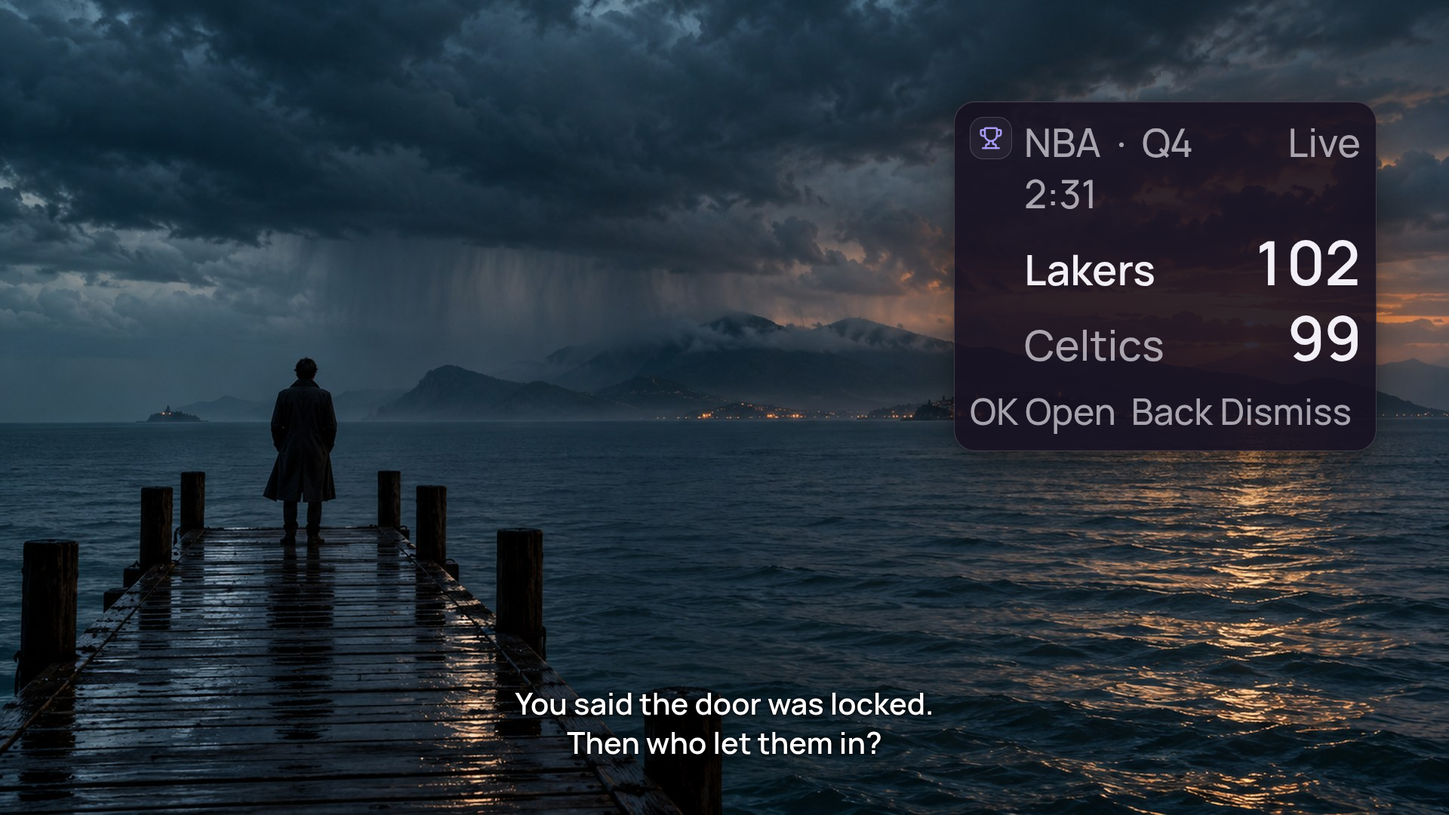
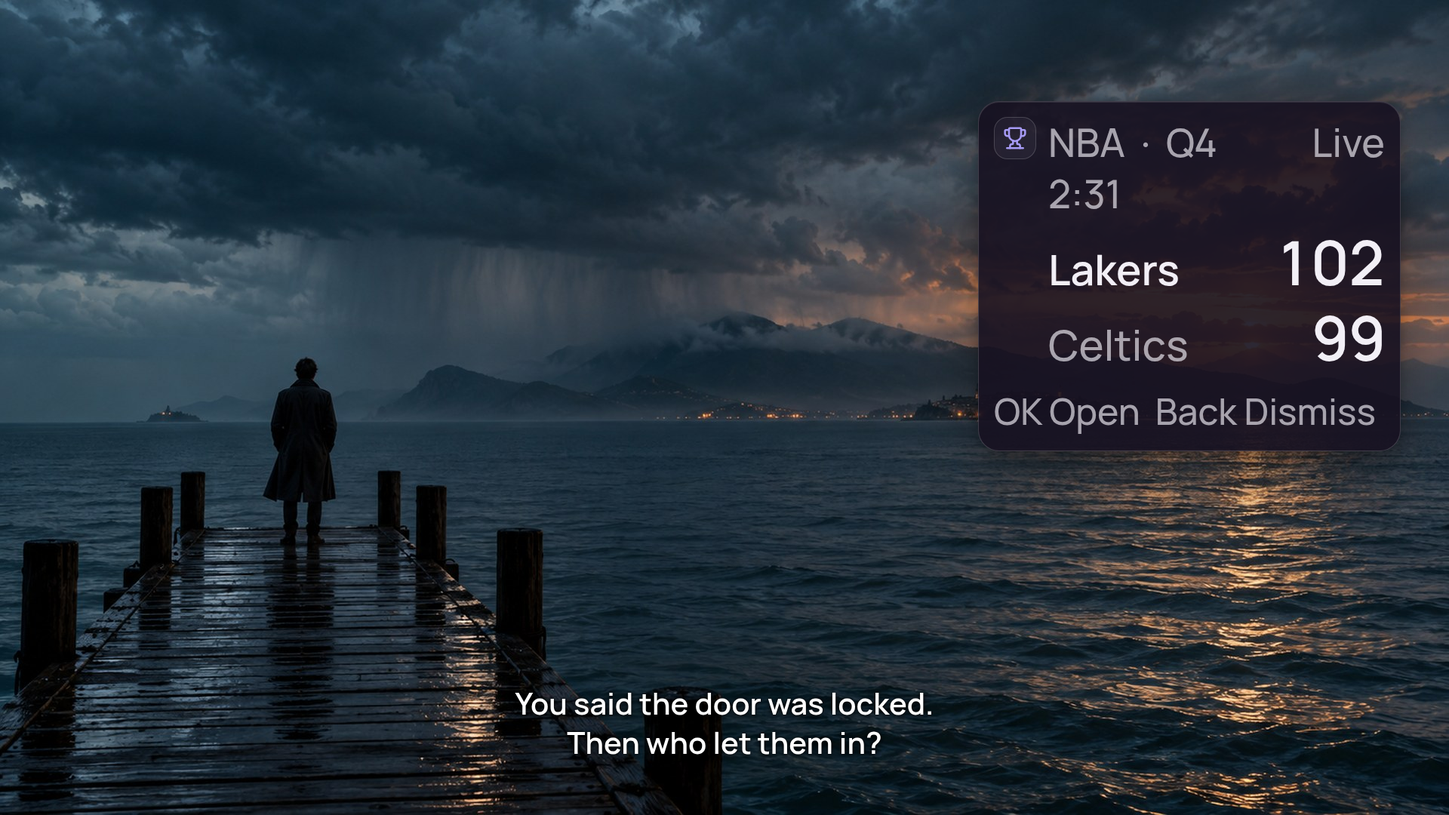
Camera pop-up and cards end where Home's right edge does
The pop-up and the cards were laid out 96 px from the screen's right edge (the 5 % safe area) while Home's status bar and dock end 64 px from it, so both stopped 32 px short of the corner. overlays.right is 64 now and the pop-up reads the same value as the cards; the slide of both is animated in and out instead of jumping.

diff --git a/docs/mocks/overlay-layout/index.html b/docs/mocks/overlay-layout/index.html
@@ -1,0 +1,241 @@
+<!doctype html>
+<html lang="en" data-theme="dark">
+<head>
+<meta charset="utf-8">
+<title>LumaTV · Layout of pop-ups</title>
+<link rel="stylesheet" href="../lucent.css">
+<link rel="stylesheet" href="../help.css">
+<style>
+  /* The layout of the pop-ups (docs/research/overlay-layout-result.md; the surfaces are payload/compositor/lumatv/panels/PlaceEdit.qml and
+     settings/PagePopups.qml, the model is Placement.js, whose arithmetic this page repeats in `rectIn`).
+     ?v=editor (default): every overlay item in its own size on a frame that stands for the screen, the volume bar chosen. The frame shows what the rules
+       keep clear: the safe area (Home's own, 64 x 54), Home's status bar and its row, the bottom quarter (the film's subtitles and the volume bar's) and the
+       subtitles in it. The heads-up panel stands where no item is.
+     ?v=move: the camera window in the hand, a third of the way left; its old place stays outlined; the arrows move it, OK puts it down, Back puts it back.
+     ?v=edge: the volume bar on the right edge (vertical), the camera window moved to the top left: an arrangement the owner made.
+     ?v=blocked: the volume bar pushed toward the right edge, where the camera window is: refused, and the one in the way says so.
+     ?v=page: Settings > Home & look > Layout of pop-ups, a row per item with where it is in words.
+     ?theme=light for the light material; ?text=200 doubles the type (Lucent: no overlapping text at 100 % and 200 %). Sizes are what the surfaces measure at 100 % text
+     (the volume bar 440 x 60, the mute mark 64, the camera window 560 x 469, a card 560 x 165, a toast 560 x 98); text at 200 % makes them taller. */
+  :root { --ts: 1; --canvas: var(--pal-canvas); --tone-accent: var(--lu-accent); }
+  [data-text="200"] { --ts: 2; }
+  [data-theme="light"] { --tone-accent: #5A4C6A; }
+  body { background: var(--pal-canvas); }
+  .stage .wall { opacity: 1; }
+  .veil { position: absolute; inset: 0; background: var(--pal-canvas); opacity: .9; }
+  .sv { display: none; }
+  html:not([data-v]) .sv.ed, [data-v="editor"] .sv.ed, [data-v="move"] .sv.ed, [data-v="edge"] .sv.ed, [data-v="blocked"] .sv.ed, [data-v="page"] .sv.pg { display: block; }
+
+  /* the frame: what the rules keep clear */
+  .safe { position: absolute; left: 64px; top: 54px; right: 64px; bottom: 54px; border: 2px solid color-mix(in srgb, var(--lu-ink) 22%, transparent); border-radius: 6px; }
+  .bar { position: absolute; left: 64px; top: 54px; right: 64px; height: 60px; border-radius: 30px; display: flex; align-items: center; padding: 0 24px 0 8px; gap: 20px; background: var(--lu-glass); border: 1px solid var(--lu-edge); }
+  .bar .dot { width: 44px; height: 44px; border-radius: 50%; background: var(--lu-accent); opacity: .55; }
+  .bar .lab { font-size: 24px; color: var(--lu-ink-3); font-weight: 500; flex: 1; padding-left: 52px; }
+  .bar .ic { width: 28px; height: 28px; color: var(--lu-ink-3); }
+  .hatch { position: absolute; left: 0; right: 0; top: 810px; bottom: 0; background: repeating-linear-gradient(135deg, color-mix(in srgb, var(--lu-danger) 16%, transparent) 0 8px, transparent 8px 28px), color-mix(in srgb, var(--lu-danger) 7%, transparent); border-top: 3px solid color-mix(in srgb, var(--lu-danger) 70%, transparent); }
+  .subs { position: absolute; left: 0; right: 0; top: 905px; height: 105px; display: grid; place-items: center; font-size: 28px; font-weight: 600; color: var(--lu-ink-2); }
+  .held { position: absolute; border: 2px solid color-mix(in srgb, var(--lu-accent) 50%, transparent); display: none; }
+
+  /* an item: its own material and size; chosen it has the lit edge and a tag, picked up it lifts */
+  .g { position: absolute; }
+  .g > .face { position: relative; }
+  .g.sel::before { content: ""; position: absolute; inset: -4px; border-radius: calc(var(--r, 26px) + 4px); border: 3px solid var(--lu-accent); pointer-events: none; z-index: 2; }
+  .g.sel::after { content: ""; position: absolute; inset: -60px; background: radial-gradient(closest-side, color-mix(in srgb, var(--lu-accent) 30%, transparent), transparent 70%); pointer-events: none; z-index: -1; }
+  .g.hit::before { content: ""; position: absolute; inset: -4px; border-radius: calc(var(--r, 26px) + 4px); border: 3px solid var(--lu-danger); pointer-events: none; z-index: 2; }
+  .g.lift > .face { transform: scale(1.03); }
+  .g.waits > .face { opacity: .45; }
+  .g.waits::after { content: "Waits while the camera window is up"; position: absolute; left: 20px; top: calc(100% + 8px); font-size: 22px; font-weight: 500; color: var(--lu-ink-2); }
+  .tag { position: absolute; left: 0; display: none; align-items: center; gap: 8px; height: 40px; padding: 0 16px; border-radius: 20px; background: var(--lu-glass-raised); border: 1px solid var(--lu-edge-raised); font-size: 26px; font-weight: 600; white-space: nowrap; z-index: 3; }
+  .tag .ic { width: 22px; height: 22px; color: var(--lu-accent); }
+  .g.sel .tag { display: inline-flex; }
+  .tag.up { top: -52px; }
+  .tag.down { top: calc(100% + 12px); }
+  .g .overlay { position: relative; }
+  .pill { height: calc(60px + 34px * (var(--ts) - 1)); border-radius: calc(30px + 17px * (var(--ts) - 1)); display: flex; align-items: center; gap: 20px; padding: 0 24px; }
+  .pill.h { width: 440px; }
+  .pill .num { width: calc(48px * var(--ts)); text-align: right; font-size: calc(26px * var(--ts)); font-weight: 600; font-variant-numeric: tabular-nums; }
+  .pill .trk { flex: 1; height: 8px; border-radius: 4px; background: var(--lu-track-off); position: relative; }
+  .pill .trk i { position: absolute; left: 0; top: 0; bottom: 0; width: 42%; border-radius: 4px; background: var(--lu-ink); }
+  .pill.v { width: calc(72px + 44px * (var(--ts) - 1)); height: 440px; flex-direction: column; border-radius: calc(36px + 22px * (var(--ts) - 1)); padding: 24px 0; gap: 20px; justify-content: flex-start; }
+  .pill.v .num { width: auto; text-align: center; }
+  .pill.v .trk { flex: 1; width: 8px; height: auto; }
+  .pill.v .trk i { top: auto; left: 0; right: 0; bottom: 0; width: auto; height: 42%; }
+  .mark { width: 64px; height: 64px; border-radius: 50%; display: grid; place-items: center; }
+  .mark .ic { width: 32px; height: 32px; }
+  .box { position: absolute; border: 2px solid color-mix(in srgb, var(--lu-accent) 40%, transparent); border-radius: 32px; display: none; z-index: -1; }
+  .cam { width: 560px; padding: 20px; box-sizing: border-box; border-radius: var(--lu-radius-card); }
+  .cam .head { display: flex; align-items: flex-start; gap: 16px; }
+  .cam .head .ic { width: 36px; height: 36px; margin-top: 2px; color: var(--tone-accent); }
+  .cam .name { font-size: calc(28px * var(--ts)); font-weight: 600; line-height: 1.25; }
+  .cam .what { font-size: calc(26px * var(--ts)); font-weight: 500; line-height: 1.25; color: var(--lu-ink-2); margin-top: 4px; }
+  .cam .preview { margin-top: 12px; width: 520px; height: 292px; border-radius: var(--lu-radius-tile); background: linear-gradient(180deg, color-mix(in srgb, var(--lu-accent) 30%, transparent), color-mix(in srgb, var(--lu-accent) 8%, transparent)); display: grid; place-items: center; }
+  .cam .preview .ic { width: 64px; height: 64px; color: var(--lu-ink-3); }
+  .cam .foot { display: flex; align-items: center; gap: 8px; margin-top: 12px; font-size: calc(24px * var(--ts)); line-height: 1.3; color: var(--lu-ink-2); flex-wrap: wrap; }
+  .cam .foot .dot { display: inline-block; width: 12px; height: 12px; border-radius: 6px; background: var(--lu-live); }
+  .cam .foot .keys { margin-left: auto; display: flex; gap: 20px; }
+  [data-text="200"] .cam .foot .keys { margin-left: 0; flex-basis: 100%; }
+  .ov { width: 560px; padding: 20px; box-sizing: border-box; border-radius: var(--lu-radius-card); }
+  .ov .ov-row { display: flex; align-items: flex-start; gap: 16px; }
+  .ov .lead { width: 56px; height: 56px; border-radius: 18px; display: grid; place-items: center; flex: none; background: var(--selected-wash); border: 1px solid var(--lu-edge); }
+  .ov .lead .ic { width: 32px; height: 32px; color: var(--tone-accent); }
+  .ov .t { font-size: calc(28px * var(--ts)); font-weight: 600; line-height: 1.25; }
+  .ov .d { margin-top: 4px; font-size: calc(26px * var(--ts)); font-weight: 500; line-height: 1.3; color: var(--lu-ink-2); }
+  .ov .foot { display: flex; align-items: baseline; gap: 16px; margin-top: 12px; font-size: calc(24px * var(--ts)); line-height: 1.3; color: var(--lu-ink-2); flex-wrap: wrap; }
+  .ov .foot .src { flex: 1 1 auto; }
+  .ov .foot .keys { display: flex; gap: 20px; margin-left: auto; }
+  [data-text="200"] .ov .foot .keys { margin-left: 0; flex-basis: 100%; }
+  .tst { width: 560px; border-radius: var(--lu-radius-sheet); background: var(--lu-glass); border: 1px solid var(--lu-edge); padding: 12px; box-sizing: border-box; display: flex; gap: 12px; align-items: center; }
+  .tst .tile { width: 48px; height: 48px; border-radius: 14px; background: var(--lu-accent); color: var(--lu-accent-ink); display: grid; place-items: center; flex: none; }
+  .tst .tile .ic { width: 28px; height: 28px; }
+  .tst .t { font-size: calc(26px * var(--ts)); font-weight: 500; line-height: 1.3; }
+  .tst .d { font-size: calc(24px * var(--ts)); font-weight: 500; line-height: 1.3; color: var(--lu-ink-2); margin-top: 4px; }
+
+  /* the heads-up panel */
+  /* an opaque sheet, as Confirm's: what it covers is not read through it */
+  .hud { position: absolute; width: 760px; padding: 24px; box-sizing: border-box; border-radius: var(--lu-radius-sheet); z-index: 5; background: rgba(31, 29, 46, .96); border: 1px solid var(--lu-edge); }
+  [data-theme="light"] .hud { background: rgba(255, 250, 243, .96); }
+  .hud .hh { display: flex; align-items: center; gap: 12px; font-size: calc(28px * var(--ts)); font-weight: 600; }
+  .hud .hh .ic { width: 32px; height: 32px; }
+  .hud .where { margin-top: 12px; font-size: calc(28px * var(--ts)); font-weight: 500; }
+  .hud .note { margin-top: 12px; font-size: calc(26px * var(--ts)); font-weight: 500; color: var(--lu-danger-readable); display: none; }
+  [data-v="blocked"] .hud .note { display: block; }
+  .hud .btns { display: flex; gap: 16px; margin-top: 16px; }
+  .hud .hint { margin-top: 16px; font-size: calc(24px * var(--ts)); font-weight: 500; color: var(--lu-ink-2); }
+  [data-v="move"] .hud .btns, [data-v="blocked"] .hud .btns, [data-v="move"] .hud .hh, [data-v="blocked"] .hud .hh { display: none; }
+  [data-v="move"] .hud .where, [data-v="blocked"] .hud .where { margin-top: 0; }
+  .hud .btn { height: calc(64px + 32px * (var(--ts) - 1)); min-width: 0; padding: 0 28px; font-size: calc(26px * var(--ts)); }
+</style>
+</head>
+<body>
+<div class="wall"></div>
+<div class="veil"></div>
+
+<!-- ============================ the editor -->
+<div class="sv ed">
+  <div class="safe"></div>
+  <div class="hatch"></div>
+  <div class="subs">Subtitles</div>
+  <div class="bar"><span class="dot"></span><span class="lab">Home&#8217;s status bar</span><i class="ic" data-ic="bell"></i><i class="ic" data-ic="settings"></i><i class="ic" data-ic="search"></i></div>
+  <div class="held" id="held"></div>
+
+  <div class="g" id="g-volume" data-id="volume"><div class="tag up"><i class="ic" data-ic="volume-2"></i>Volume bar</div>
+    <div class="face"><div class="overlay pill h" id="pill"><span class="num">42</span><span class="trk"><i></i></span></div></div></div>
+  <div class="box" id="box"></div>
+  <div class="g" id="g-mute" data-id="mute" style="--r:32px"><div class="tag down"><i class="ic" data-ic="volume-x"></i>Mute mark</div>
+    <div class="face"><div class="overlay mark"><i class="ic" data-ic="volume-x"></i></div></div></div>
+  <div class="g" id="g-popup" data-id="popup"><div class="tag up"><i class="ic" data-ic="video"></i>Camera window</div>
+    <div class="face"><div class="overlay cam">
+      <div class="head"><i class="ic" data-ic="bell-ring"></i><div><div class="name">Front door</div><div class="what">Doorbell rang &nbsp;&middot;&nbsp; Just now</div></div></div>
+      <div class="preview"><i class="ic" data-ic="video"></i></div>
+      <div class="foot"><i class="dot"></i><span>Live</span><span class="keys"><span>OK expands</span><span>Back dismisses</span></span></div>
+    </div></div></div>
+  <div class="g" id="g-cards" data-id="cards"><div class="tag up"><i class="ic" data-ic="bell"></i>Notifications</div>
+    <div class="face"><div class="overlay ov">
+      <div class="ov-row"><i class="lead"><i class="ic" data-ic="timer"></i></i><div><div class="t">Pasta</div><div class="d">Time&#8217;s up</div></div></div>
+      <div class="foot"><span class="src">Kitchen Show</span><span class="keys"><span>OK Stop</span><span>Back Dismiss</span></span></div>
+    </div></div></div>
+  <div class="g" id="g-toast" data-id="toast" style="--r:34px"><div class="tag down"><i class="ic" data-ic="info"></i>Toasts</div>
+    <div class="face"><div class="tst"><i class="tile"><i class="ic" data-ic="info"></i></i><div><div class="t">Remote battery low</div><div class="d">Replace the batteries soon.</div></div></div></div></div>
+
+  <div class="hud" id="hud">
+    <div class="hh"><i class="ic" data-ic="picture-in-picture"></i>Layout of pop-ups</div>
+    <div class="where" id="where"></div>
+    <div class="note" id="note">Camera window is in the way</div>
+    <div class="btns"><span class="btn small" style="opacity:.55">Reset this</span><span class="btn small">Reset all</span><span class="btn small primary">Done</span></div>
+    <div class="hint" id="hint"></div>
+  </div>
+</div>
+
+<!-- ============================ the Settings page -->
+<div class="sv pg">
+  <div class="pane topbar"><i data-ic="chevron-left" class="ic"></i><span class="title">Settings</span><span class="spacer"></span><span class="status"><i data-ic="wifi"></i><i data-ic="mouse-pointer-2"></i></span><span class="time num">9:57 PM</span></div>
+  <nav class="pane rail" data-open="home" aria-label="Settings sections"></nav>
+  <main class="pane page">
+    <div class="page-head"><h1>Layout of pop-ups</h1><span class="sub">Home &amp; look</span></div>
+    <div class="page-body">
+      <div class="rows">
+        <div class="row focusable no-line focus"><div class="lead"><i data-ic="volume-2"></i></div><div class="text"><div class="t">Volume bar</div></div><div class="v">Bottom edge <i data-ic="chevron-right"></i></div></div>
+        <div class="row focusable"><div class="lead"><i data-ic="volume-x"></i></div><div class="text"><div class="t">Mute mark</div></div><div class="v">Corners <i data-ic="chevron-right"></i></div></div>
+        <div class="row focusable"><div class="lead"><i data-ic="video"></i></div><div class="text"><div class="t">Camera window</div></div><div class="v">Top right <i data-ic="chevron-right"></i></div></div>
+        <div class="row focusable"><div class="lead"><i data-ic="bell"></i></div><div class="text"><div class="t">Notifications</div></div><div class="v">Top right <i data-ic="chevron-right"></i></div></div>
+        <div class="row focusable"><div class="lead"><i data-ic="info"></i></div><div class="text"><div class="t">Toasts</div></div><div class="v">Top right <i data-ic="chevron-right"></i></div></div>
+      </div>
+      <div class="rows">
+        <div class="row focusable no-line"><div class="lead"><i data-ic="layout-grid"></i></div><div class="text"><div class="t">Edit in preview</div></div><div class="v"><i data-ic="chevron-right"></i></div></div>
+        <div class="row focusable"><div class="lead"><i data-ic="rotate-ccw"></i></div><div class="text"><div class="t">Reset all</div></div><span class="seg"><span aria-selected="true">Keep</span><span aria-selected="false">Reset</span></span></div>
+      </div>
+    </div>
+  </main>
+</div>
+
+<script src="../icons.js"></script>
+<script src="../mock.js"></script>
+<script>
+(function () {
+  const q = new URLSearchParams(location.search);
+  if (q.get('text')) document.documentElement.dataset.text = q.get('text');
+  const v = q.get('v') || 'editor';
+  // ---- Placement.js, as far as this page needs: the zones, the anchors and the room an item has left
+  const Z = { content: { x: 64, y: 134, w: 1792, h: 676 }, edge: { x: 64, y: 134, w: 1792, h: 882 }, toast: { x: 24, y: 24, w: 1872, h: 786 } };
+  const A = { 'top-left': [0, 0], 'top': [.5, 0], 'top-right': [1, 0], 'left': [0, .5], 'center': [.5, .5], 'right': [1, .5], 'bottom-left': [0, 1], 'bottom': [.5, 1], 'bottom-right': [1, 1] };
+  const clamp = (x) => Math.max(0, Math.min(1, x));
+  const rectIn = (z, p, w, h) => { const a = A[p.anchor]; return { x: z.x + Math.round(clamp(a[0] + p.dx) * Math.max(0, z.w - w)), y: z.y + Math.round(clamp(a[1] + p.dy) * Math.max(0, z.h - h)), w, h }; };
+  const meets = (a, b, g = 0) => a.x < b.x + b.w + g && b.x < a.x + a.w + g && a.y < b.y + b.h + g && b.y < a.y + a.h + g;
+  // ---- the arrangement of each view (what the owner placed; anything not said is the item's default)
+  const TL = { anchor: 'top-left', dx: 0, dy: 0 }, TR = { anchor: 'top-right', dx: 0, dy: 0 };
+  const DEF = { volume: { anchor: 'bottom', dx: 0, dy: 0 }, mute: { anchor: 'top-left', dx: .0185, dy: 0 }, popup: TR, cards: TR, toast: TR };
+  const VIEWS = {
+    editor: { sel: 'volume', place: {} },
+    move: { sel: 'popup', picked: true, place: { popup: { anchor: 'top', dx: .1667, dy: 0 } }, held: 'popup' },
+    edge: { sel: 'volume', place: { volume: { anchor: 'right', dx: 0, dy: 0 }, popup: TL, cards: { anchor: 'top', dx: 0, dy: 0 }, mute: { anchor: 'top-right', dx: 0, dy: 0 } } },
+    blocked: { sel: 'volume', picked: true, place: {}, held: 'volume', hit: 'popup', ghost: { volume: { anchor: 'right', dx: 0, dy: 0 } } },
+  };
+  if (v === 'page') { window.addEventListener('load', () => document.fonts.ready); return; }
+  const V = VIEWS[v] || VIEWS.editor;
+  const P = (id) => V.place[id] || DEF[id];
+  const ids = ['volume', 'mute', 'popup', 'cards', 'toast'];
+  const names = { volume: 'Volume bar', mute: 'Mute mark', popup: 'Camera window', cards: 'Notifications', toast: 'Toasts' };
+  const icons = { volume: 'volume-2', mute: 'volume-x', popup: 'video', cards: 'bell', toast: 'info' };
+  const place = () => {
+    const el = (id) => document.getElementById('g-' + id);
+    const pill = document.getElementById('pill');
+    const edgeOf = (p) => p.anchor === 'bottom' ? 'h' : 'v';
+    const volP = (V.ghost && V.ghost.volume) ? DEF.volume : P('volume');       // a refused move leaves the bar where it was
+    pill.classList.toggle('v', edgeOf(volP) === 'v'); pill.classList.toggle('h', edgeOf(volP) === 'h');
+    // the panel's words first: its height is what its place is chosen for
+    const words = { editor: 'Bottom edge', move: 'Top, right third, moved', edge: 'Right edge', blocked: 'Bottom edge' }[v];
+    document.getElementById('where').textContent = names[V.sel] + '  \u00b7  ' + words;
+    document.getElementById('hint').textContent = V.picked ? 'Arrows move it  \u00b7  OK Put down  \u00b7  Back Put back' : '\u2190 \u2192 Choose an item  \u00b7  OK Pick up  \u00b7  Down Buttons  \u00b7  Back Done';
+    window.Icons && Icons.fill(document);
+    // the camera window's picture gives up height (never below 120) until the card ends above 810, as the surface does
+    const pv = document.querySelector('#g-popup .preview'), pz = el('popup');
+    pz.style.left = '1296px'; pz.style.top = '134px';
+    const over = pz.getBoundingClientRect().bottom - 810;
+    if (over > 0) pv.style.height = Math.max(120, 292 - Math.ceil(over / 2) * 2) + 'px';
+    const size = (id) => ({ w: el(id).offsetWidth, h: el(id).offsetHeight });
+    const R = {};
+    ids.forEach((id) => { const s = size(id); R[id] = rectIn(Z[id === 'volume' ? 'edge' : id === 'toast' ? 'toast' : 'content'], id === 'volume' ? volP : P(id), s.w, s.h); });
+    R.volume.y -= (volP.anchor === 'bottom' ? 120 : 0);                       // over an app the bar on the bottom edge rides above the subtitles
+    // the cards go under the camera window where they meet; where they would end below 810 they wait there until it has gone (drawn faint)
+    let waits = false;
+    if (meets(R.popup, R.cards, 16)) { R.cards.y = R.popup.y + R.popup.h + 16; waits = R.cards.y + R.cards.h > 810; }
+    ids.forEach((id) => { const e = el(id); e.style.left = R[id].x + 'px'; e.style.top = R[id].y + 'px'; e.classList.toggle('sel', V.sel === id); e.classList.toggle('lift', !!V.picked && V.sel === id); e.classList.toggle('hit', V.hit === id); });
+    el('cards').classList.toggle('waits', waits);
+    ['volume', 'mute', 'popup', 'cards', 'toast'].forEach((id) => { const t = el(id).querySelector('.tag'); if (R[id].y < 60) { t.classList.remove('up'); t.classList.add('down'); } });
+    // the place the item in the hand left stays outlined
+    if (V.picked && V.held) { const h = document.getElementById('held'), r = R[V.held]; const hp = DEF[V.held]; const hr = rectIn(Z[V.held === 'volume' ? 'edge' : 'content'], hp, r.w, r.h); if (V.held === 'volume') hr.y -= 120; h.style.cssText = `display:block;left:${hr.x}px;top:${hr.y}px;width:${hr.w}px;height:${hr.h}px;border-radius:${V.held === 'volume' ? 30 : 26}px`; }
+    // the places a mark the owner placed visits
+    if (V.place.mute) { const b = document.getElementById('box'), m = R.mute, d = 48; const sx = m.x + 32 < 960 ? 1 : -1, sy = m.y + 32 < 472 ? 1 : -1; const x0 = Math.min(m.x, m.x + sx * d), y0 = Math.min(m.y, m.y + sy * d); b.style.cssText = `display:block;left:${x0}px;top:${y0}px;width:${64 + d}px;height:${64 + d}px`; }
+    // the heads-up panel: the first place, nearest the middle of the screen, that no item is in or beside (a place every 40 px across, three heights)
+    const hud = document.getElementById('hud'), hw = hud.offsetWidth, hh = hud.offsetHeight;
+    const xs = []; for (let x = 64 + 40; x <= 1920 - 64 - 40 - hw; x += 40) xs.push(x); xs.sort((a, b) => Math.abs(a + hw / 2 - 960) - Math.abs(b + hw / 2 - 960));
+    const ys = [Math.round((1080 - hh) / 2), 134 + 28, 810 - hh - 28];
+    let best = { x: xs[0], y: ys[0] }, bestHit = 99;
+    outer: for (const y of ys) for (const x of xs) { let hit = 0; for (const id of ids) if (!(id === 'cards' && waits) && meets({ x, y, w: hw, h: hh }, R[id], 16)) hit += id === V.sel ? 100 : 1; if (hit < bestHit) { bestHit = hit; best = { x, y }; } if (!hit) break outer; }
+    hud.style.left = best.x + 'px'; hud.style.top = best.y + 'px';
+  };
+  addEventListener('load', () => document.fonts.ready.then(place));
+})();
+</script>
+</body>
+</html>

diff --git a/docs/mocks/overlays/index.html b/docs/mocks/overlays/index.html
@@ -6,7 +6,7 @@
 <link rel="stylesheet" href="../lucent.css">
 <style>
   /* One overlay system over any app (docs/research/overlays-result.md; the surface is payload/compositor/lumatv/panels/Overlays.qml and its
-     cards OverlayCard.qml). A column of glass cards in the top right corner: inside the 5 % safe area (96 from the right edge), below the status
+     cards OverlayCard.qml). A column of glass cards in the top right corner: flush with Home's right edge (64 from the screen's, as its status bar and widgets end: it was 96 until the layout editor, docs/research/overlay-layout-result.md), below the status
      bar's row (134 from the top), 560 wide as the camera pop-up and the toasts are, never lower than 75 % of the height (810) so that the film's
      subtitles and the volume bar keep the bottom quarter. At most two cards at once, the most important class first, the camera pop-up (the
      doorbell's card) on top where it is up.
@@ -26,7 +26,7 @@
   html:not([data-v]) .st.multi, [data-v="stack"] .st.multi, [data-v="doorbell"] .st.doorbell, [data-v="timer"] .st.timer, [data-v="alarm"] .st.alarm,
   [data-v="alert"] .st.alert, [data-v="score"] .st.score, [data-v="zones"] .st.multi { display: block; }
 
-  .stack { position: absolute; right: 96px; top: 134px; width: 560px; display: flex; flex-direction: column; gap: 16px; }
+  .stack { position: absolute; right: 64px; top: 134px; width: 560px; display: flex; flex-direction: column; gap: 16px; }
   .ov { position: relative; padding: 20px; border-radius: var(--lu-radius-card); }
   .ov .ov-row { display: flex; align-items: flex-start; gap: 16px; }
   .ov .ov-lead { width: 56px; height: 56px; border-radius: 18px; display: grid; place-items: center; flex: none; background: var(--selected-wash); border: 1px solid var(--lu-edge); }
@@ -72,10 +72,10 @@
   /* the zones (?v=zones): what the column keeps to */
   .zone { display: none; position: absolute; pointer-events: none; }
   [data-v="zones"] .zone { display: block; }
-  .zone.safe { left: 96px; right: 96px; top: 54px; bottom: 54px; border: 2px dashed rgba(255,255,255,.35); border-radius: 8px; }
+  .zone.safe { left: 64px; right: 64px; top: 54px; bottom: 54px; border: 2px dashed rgba(255,255,255,.35); border-radius: 8px; }
   .zone.bottom { left: 0; right: 0; top: 810px; bottom: 0; background: repeating-linear-gradient(135deg, rgba(235,111,146,.26) 0 14px, rgba(235,111,146,.10) 14px 28px); border-top: 3px solid var(--lu-danger); }
-  .zone.bottom span { position: absolute; left: 96px; top: 12px; padding: 4px 16px; border-radius: 12px; background: rgba(0,0,0,.72); color: #fff; font-size: 24px; font-weight: 600; }
-  .zone.col { left: 1264px; width: 560px; top: 134px; height: 676px; border: 3px dashed var(--lu-accent); border-radius: 28px; }
+  .zone.bottom span { position: absolute; left: 64px; top: 12px; padding: 4px 16px; border-radius: 12px; background: rgba(0,0,0,.72); color: #fff; font-size: 24px; font-weight: 600; }
+  .zone.col { left: 1296px; width: 560px; top: 134px; height: 676px; border: 3px dashed var(--lu-accent); border-radius: 28px; }
   .zone.col span { position: absolute; right: 16px; bottom: 8px; padding: 2px 12px; border-radius: 10px; background: rgba(0,0,0,.72); color: #fff; font-size: 22px; font-weight: 600; }
 </style>
 </head>

diff --git a/payload/compositor/lumatv/panels/Cameras.qml b/payload/compositor/lumatv/panels/Cameras.qml
@@ -200,8 +200,9 @@ Item {
     function nameOf(i) { return i >= 0 && i < cameras.length ? (cameras[i].name || cameras[i].id) : "" }
 
     // ================================================================= the pop-up card (docs/mocks/cameras/popup)
-    // Top right, inside the 5 % safe area (96 from the right edge) and below the status bar's row (54 + 60 + 20 = 134): the mute mark's
+    // Top right, ending where Home's status bar does (theme overlays.right, 64: layout.json safe.x) and below its row (54 + 60 + 20 = 134): the mute mark's
     // row; the mark keeps to the left corner while this is up (LumaOverlay tells the volume display).
+    readonly property int rightEdge: Lu.theme && Lu.theme.overlays && Lu.theme.overlays.right !== undefined ? Lu.theme.overlays.right : 64     // the cards under it use the same
     readonly property int padX: Lu.space(5)       // 20
     readonly property int cardW: 560
     readonly property int previewW: cardW - 2 * padX
@@ -212,11 +213,12 @@ Item {
     readonly property int previewH: Math.max(120, Math.min(previewNat, ((cardLimit - 134 - (2 * padX + head.height + 2 * Lu.space(3) + foot.height)) >> 1) << 1))
     // where the card ends, for the overlay system's cards that go under it
     readonly property real popupBottom: card.y + card.height
+    readonly property real popupRight: card.x + card.width     // and where it ends across: where Home's right edge is
     LuPane {
         id: card
         width: cams.cardW
         height: head.y + head.height + Lu.space(3) + cams.previewH + Lu.space(3) + foot.height + cams.padX
-        x: cams.width - 96 - width
+        x: cams.width - cams.rightEdge - width
         y: 134
         cardRadius: Lu.radius("card")
         fillAlpha: cams.paneAlpha
@@ -224,7 +226,10 @@ Item {
         visible: opacity > 0
         // in from a touch to the right and a little smaller, the card's own motion; out quickly. Nothing moves after it has landed.
         scale: cams.popupUp ? 1 : 0.96
-        transform: Translate { x: cams.popupUp ? 0 : 24 }
+        transform: Translate {
+            x: cams.popupUp ? 0 : 24
+            Behavior on x { enabled: !Lu.reduced; NumberAnimation { duration: cams.popupUp ? Lu.cardMs : Lu.restMs; easing.type: Lu.cardEasing } }
+        }
         Behavior on opacity { enabled: !Lu.reduced; NumberAnimation { duration: cams.popupUp ? Lu.cardMs : Lu.restMs; easing.type: Lu.cardEasing } }
         Behavior on scale { enabled: !Lu.reduced; NumberAnimation { duration: Lu.cardMs; easing.type: Lu.cardEasing } }
         onOpacityChanged: if (opacity === 1) locate()

diff --git a/docs/mocks/cameras/index.html b/docs/mocks/cameras/index.html
@@ -18,9 +18,9 @@
   .st { display: none; }
   html:not([data-v]) .st.popup, [data-v="popup"] .st.popup, [data-v="doorbell"] .st.doorbell, [data-v="full"] .st.full, [data-v="grid"] .st.grid { display: block; }
 
-  /* the card: 560 wide, 96 from the right edge (the 5 % safe area), 134 from the top (the status bar's row and its gap). Lucent overlay material;
+  /* the card: 560 wide, 64 from the right edge (Home's own: its status bar and cards end there; it was 96 until the layout editor), 134 from the top (the status bar's row and its gap). Lucent overlay material;
      over video a near-opaque reading surface, no blur. One edge, one shadow. */
-  .cam-card { position: absolute; right: 96px; top: 134px; width: 560px; padding: 20px; box-sizing: border-box; border-radius: var(--lu-radius-card); }
+  .cam-card { position: absolute; right: 64px; top: 134px; width: 560px; padding: 20px; box-sizing: border-box; border-radius: var(--lu-radius-card); }
   .cam-card .head { display: flex; align-items: flex-start; gap: 16px; }
   .cam-card .head .ic { width: 36px; height: 36px; margin-top: 2px; }
   .cam-card .who { flex: 1 1 auto; min-width: 0; }
@@ -33,7 +33,7 @@
   .cam-card .foot .hint { margin-left: auto; color: var(--lu-ink-3); white-space: nowrap; }
   /* at 200 % the hint takes a line of its own under the state, never the edge of the card */
   [data-text="200"] .cam-card .foot { flex-wrap: wrap; row-gap: 4px; }
-  [data-text="200"] .cam-card .foot .hint { margin-left: 0; flex-basis: 100%; }
+  [data-text="200"] .cam-card .foot .hint { margin-left: 0; flex-basis: 100%; white-space: normal; }
 
   /* the full view: the picture fitted on black, the name pill top left and the hints bottom right, both fading after a moment */
   .full { position: absolute; inset: 0; background: #000; }

diff --git a/payload/compositor/lumatv/panels/OverlayCard.qml b/payload/compositor/lumatv/panels/OverlayCard.qml
@@ -39,7 +39,10 @@ Item {
     visible: !probe && opacity > 0
     opacity: probe ? 1 : (shown ? 1 : 0)
     scale: probe || shown ? 1 : 0.96
-    transform: Translate { x: card.probe || card.shown ? 0 : 24 }
+    transform: Translate {
+        x: card.probe || card.shown ? 0 : 24
+        Behavior on x { enabled: !card.probe && !card.instant && !Lu.reduced; NumberAnimation { duration: card.shown ? Lu.cardMs : Lu.restMs; easing.type: Lu.cardEasing } }
+    }
     Behavior on opacity { enabled: !card.probe && !card.instant && !Lu.reduced; NumberAnimation { duration: card.shown ? Lu.cardMs : Lu.restMs; easing.type: Lu.cardEasing } }
     Behavior on scale { enabled: !card.probe && !card.instant && !Lu.reduced; NumberAnimation { duration: Lu.cardMs; easing.type: Lu.cardEasing } }
     onOpacityChanged: if (opacity === 1) pane.locate()

diff --git a/payload/compositor/lumatv/Overlays.js b/payload/compositor/lumatv/Overlays.js
@@ -27,7 +27,7 @@ var DEFAULTS = {
     enabled: false,
     maxVisible: 2,
     top: 134,                     // where the first card starts: below the status bar's row (54 + 60 + 20), as the camera pop-up
-    right: 96,                    // from the right edge: the 5 % safe area
+    right: 64,                    // from the right edge: Home's own margin (layout.json safe.x), where its status bar and dock end
     width: 560,                   // as the camera pop-up and the toasts
     gap: 16,                      // between two cards
     limit: 810,                   // no card ends below this: three quarters of 1080, so the film's subtitles and the volume bar keep the rest

diff --git a/tests/test_camera_popup.py b/tests/test_camera_popup.py
@@ -81,7 +81,7 @@ class CameraPopup(HostCase):
         steps = [(READY, publish("cameras", CAMERAS)),
                  (READY + 300, popup(lasts=4000)),
                  (READY + 2300, "var c = %s; console.info('[p1] ' + JSON.stringify({mode: c.mode, popupUp: c.popupUp, wants: c.wants, overlayWants: overlay.wants, "
-                               "name: c.popup ? c.popup.name : '', what: c.kindWord(c.popup), ago: c.ago, "
+                               "name: c.popup ? c.popup.name : '', what: c.kindWord(c.popup), ago: c.ago, right: c.popupRight, bottom: c.popupBottom, "
                                "shownAt: c.shownAt - (c.popup ? c.popup.untilMs - 4000 : 0), pad: c.padX, pw: c.previewW, ph: c.previewH}));" % C),
                  (READY + 2800, frames() + "console.info('[f1] ' + JSON.stringify(frames));")]
         doc, out = self.run_overlay(steps, READY + 6000)
@@ -94,6 +94,7 @@ class CameraPopup(HostCase):
         # building Home when the step runs; the helper's own event-to-pop-up time is held under a second by helper/app/tests/cameras.rs.
         self.assertLess(p1["shownAt"], 2000, "the card is up within a moment of the topic")
         self.assertEqual(p1["pad"], 20)
+        self.assertEqual((p1["right"], p1["bottom"] <= 810), (1920 - 64, True), "the card ends where Home's right edge does (it ended 32 px short of it), above the bottom quarter")
         self.assertEqual((p1["pw"], p1["ph"]), (520, 292))
         frames_asked = self.tagged(out, "f1")[0]
         self.assertTrue(frames_asked, "the preview asks the helper for pictures")

diff --git a/tests/test_overlays.py b/tests/test_overlays.py
@@ -148,7 +148,7 @@ class Overlays(HostCase):
         self.assertEqual(s["cls"], ["timer"])
         for g in s["geometry"]:
             self.assertLessEqual(g["y"] + g["h"], 810, "no card ends below 75 % of the height")
-            self.assertEqual(g["x"] + g["w"], 1920 - 96, "inside the 5 % safe area")
+            self.assertEqual(g["x"] + g["w"], 1920 - 64, "ends where Home's right edge does")
             self.assertGreaterEqual(g["y"], 134)
 
     def test_two_alerts_stack_one_under_the_other_inside_the_zone(self):

diff --git a/tests/qmlhost/scenes_overlays.py b/tests/qmlhost/scenes_overlays.py
@@ -116,7 +116,7 @@ def check(geometry):
     for i, g in enumerate(cards):
         if g["y"] + g["h"] > 810:
             out.append("[zone] card %d ends at %d, below 75 %% of the height" % (i, g["y"] + g["h"]))
-        if g["x"] + g["w"] != 1920 - 96:
+        if g["x"] + g["w"] != 1920 - 64:
             out.append("[zone] card %d ends at x %d, not the safe area's edge" % (i, g["x"] + g["w"]))
         if g["y"] < 134:
             out.append("[zone] card %d starts at %d, above the status bar's row" % (i, g["y"]))

diff --git a/docs/research/overlays-result.md b/docs/research/overlays-result.md
@@ -29,7 +29,7 @@ The numbers are `theme.overlays` (`classes.<name>.{priority,dwellMs,waitMs,coold
 The rules (`Overlays.js`, one test each in `tests/overlays.test.js`):
 
 - At most two cards (Lucent's toast rule is queue, never stack; the brief asks for one or two, so two is the limit and only of one class), and only of the most important class that has something to show: while a doorbell, an alarm or a timer is up, an alert or a score waits and comes when it has gone, if it is still in date (`waitMs`); a score never shows beside a score. The camera pop-up takes a slot and the top; a card goes under it if it fits.
-- No card ends below 810 px (75 % of 1080): a second card that would not fit waits; the first always shows. At large text the pop-up's picture gives up height (never below 120 px) until its card ends above 810. Cards are 560 wide, 96 px from the right edge, from y 134: the pop-up's place, below the status bar's row.
+- No card ends below 810 px (75 % of 1080): a second card that would not fit waits; the first always shows. At large text the pop-up's picture gives up height (never below 120 px) until its card ends above 810. Cards are 560 wide, 64 px from the right edge (Home's own margin, where its status bar and dock end; 96 until 2026-10-29, `overlay-layout-result.md`), from y 134: the pop-up's place, below the status bar's row.
 - A card is up for its class's time, counted while it is shown; the record's own end (`expiresAt`) and the plugin ending it (`notify.end`) take it away at once. A card the person dismissed, or that had its time, is not shown again until its record changes; a score that moved while it is up has its time afresh (never more than three times over), and not again within 30 s of the last.
 - A doorbell record and the camera's doorbell pop-up within 20 s are one card (the camera's); a record that came first and is up when the pop-up arrives is taken into it.
 - A `low` importance record is the drawer's alone (needs the helper to publish `importance`); a `secret` one shows the channel's name and no words.
